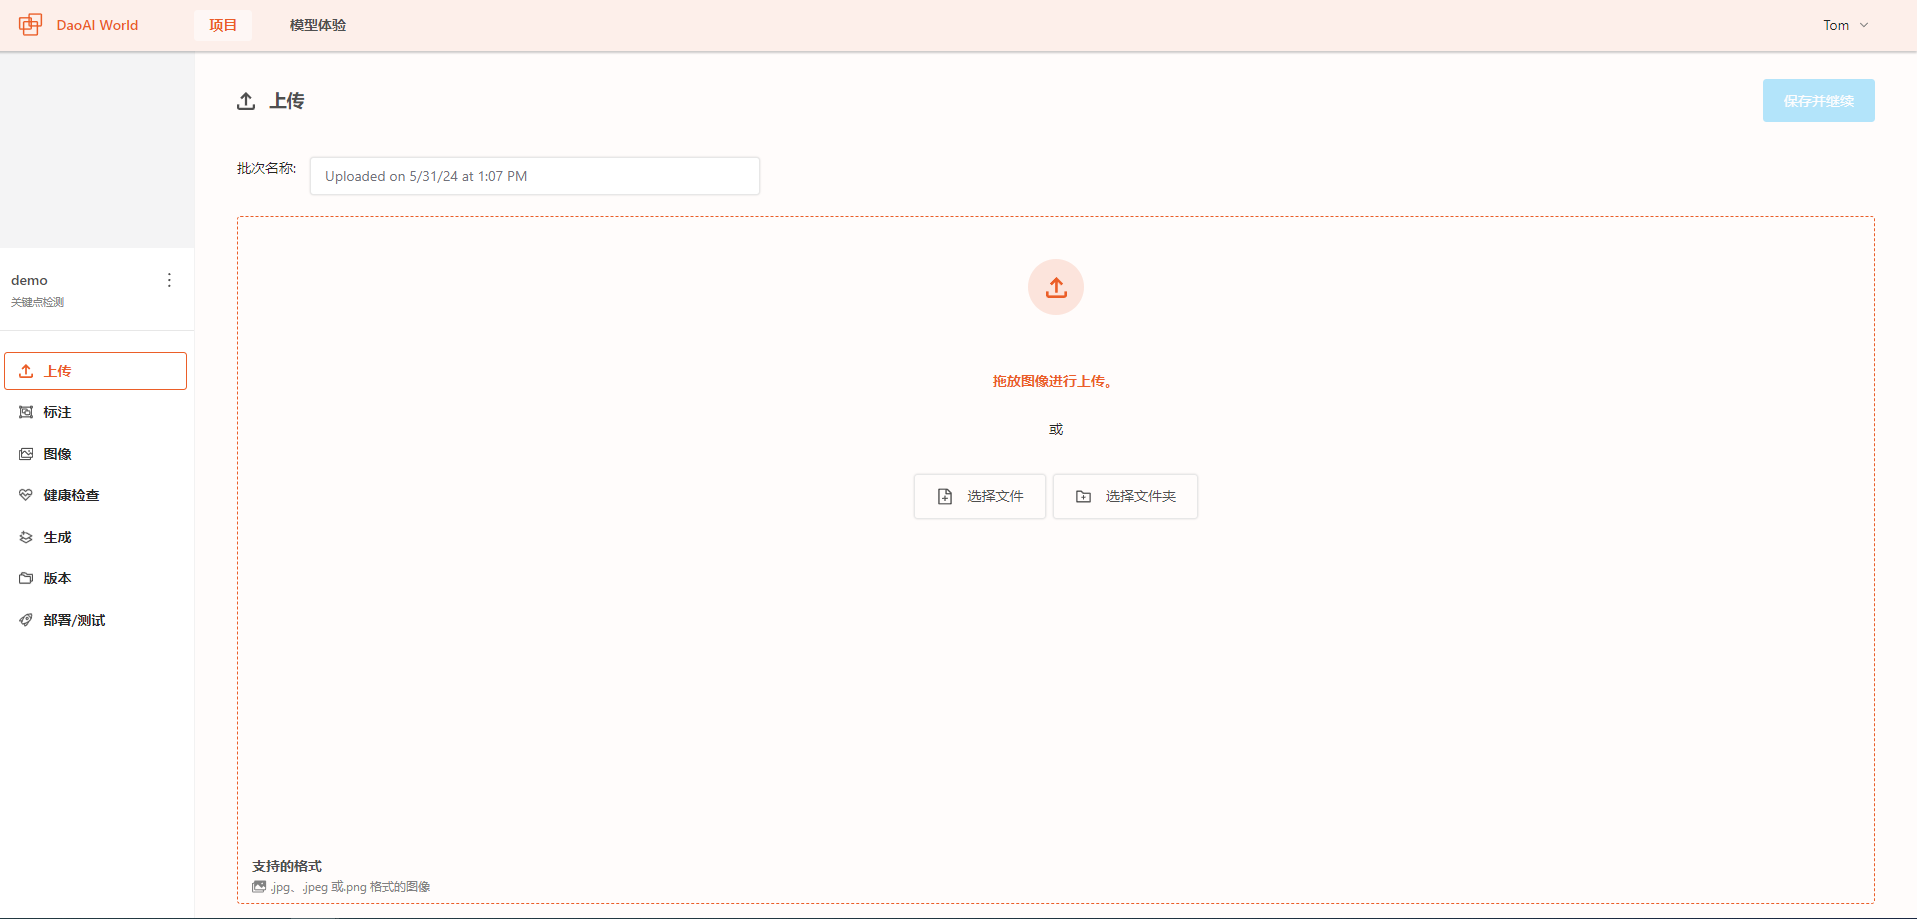
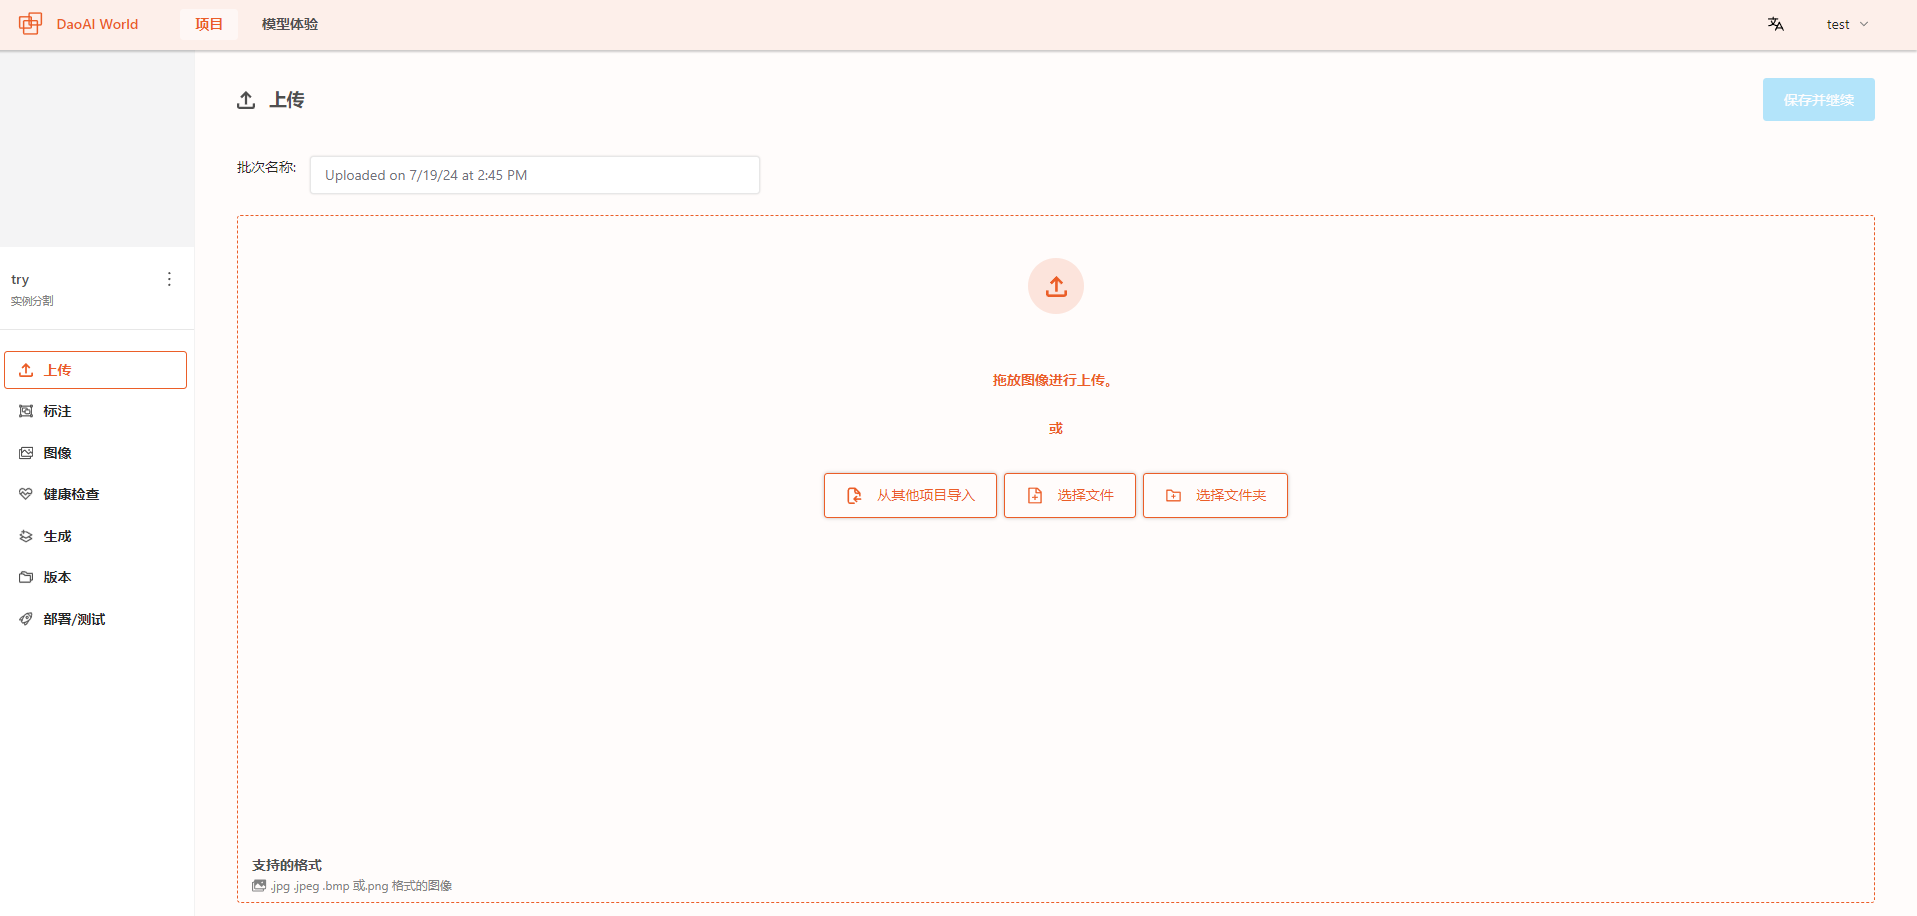
release 2.24.5.0 update

diff --git a/docs/source/conf.py b/docs/source/conf.py
@@ -6,8 +6,8 @@ project = 'DaoAI World用户手册'
 copyright = '2021-2024 DaoAI Robotics Inc.'
 author = 'DaoAI'
 
-release = '2024.4'
-version = '2024.4.0'
+release = '2024.5'
+version = '2024.5.0'
 
 # -- General configuration
 

diff --git a/docs/source/develop/index.rst b/docs/source/develop/index.rst
@@ -39,6 +39,20 @@
 C++ 环境配置
 ------------
 
+    
+    首先需要将 DLSDK 解压目录下的bin目录和3rdparty目录添加到系统环境变量path下面。
+
+    如下图，解压目录为 C:\\Users\\daoai\\Downloads\\DLSDK, 那么就需要将一下两个目录添加到path系统变量中。
+
+    C:\\Users\\daoai\\Downloads\\DLSDK\\3rdparty， <DLSDK 目录>\\3rdparty
+    C:\\Users\\daoai\\Downloads\\DLSDK\\bin， <DLSDK 目录>\\bin
+
+        .. image:: images/path_icon.png
+            :scale: 70%
+
+        .. image:: images/path_step.png
+            :scale: 100%
+
 
     C++的示例项目中以下的步骤已经配置好了，如果您需要创建一个自定义项目，则需要进行以下的配置。
 
@@ -94,6 +108,81 @@ C# 环境配置
         .. image:: images/browse_assembly.png
             :scale: 100%
 
+Python 环境配置
+---------------
+
+Python 只支持在linux系统中使用，如果您的操作系统是Windows， 那么请参考 :ref:`1. 使用Docker Image` 配置Docker 虚拟环境并使用DaoAI World Python SDK
+
+1. 使用Docker Image
+~~~~~~~~~~~~~~~~~~~~~~~~~~~~~~~~~
+
+需要先安装Docker。
+
+安装完成后, 运行Docker 然后打开命令栏, 输入并运行以下命令 来下载Docker Container。注意 这一步需要预留约60G的磁盘空间。
+
+.. code-block::
+
+    docker pull daoairobotics/daoai_vision 
+
+.. image:: images/pull_docker.png
+    :scale: 100%
+        
+下载完毕后，运行以下命令运行Docker Image 并进入虚拟映像的linux环境
+
+.. code-block::
+
+    docker run -it --gpus=all -v <本地路径>:/home/appuser/workdir -e ACTIVATION_PATH_LICENSE='/home/appuser/workdir/license.lic' -e ACTIVATION_PATH_MACHINE='/home/appuser/workdir/machine.lic' -e ACTIVATION_FINGERPRINT='857f67d5-f6a2-4bb0-9af4-90dc72d58e73' daoairobotics/daoai_vision
+
+其中
+
+1. <本地路径> 是您本地的路径，请替换为您实际的路径。
+2. /home/appuser/workdir 是Docker容器内的虚拟路径，该路径会包含第一步中指定路径的文件和文件夹。
+3. -e ACTIVATION_PATH_LICENSE='/home/appuser/workdir/license.lic' 是DaoAI的许可证文件路径，该文件应放置在第一步设置的本地路径中，并且可以在虚拟路径中访问。如果您没有许可证，请参考:ref:`DLSDK显示License Check Fail`
+4. -e ACTIVATION_PATH_MACHINE='/home/appuser/workdir/machine.lic' 是DaoAI的机器码文件路径，该文件应放置在第一步设置的本地路径中，并且可以在虚拟路径中访问。如果您没有许可证，请参考:ref:`DLSDK显示License Check Fail`
+5. -e ACTIVATION_FINGERPRINT='857f67d5-f6a2-4bb0-9af4-90dc72d58e73' 是您机器的机器码。如果您不知道您的机器码是什么，请参考 :ref:`DLSDK显示License Check Fail`
+6. daoairobotics/daoai_vision 是Docker镜像的名称。
+
+输入命令后，如下图，您将以appuser登入Docker虚拟映像
+
+    .. image:: images/pscmd.png
+        :scale: 100%
+
+
+2. 安装DaoAI Python SDK wheel
+~~~~~~~~~~~~~~~~~~~~~~~~~~~~~~~~~~~~
+
+
+Python SDK wheel 目前只支持linux环境，如果您使用的是Windows系统，那么请使用linux虚拟机，或者Docker Image
+
+需要首先安装 **Python 3.10** 或者 **Python 3.11**
+
+如果您已经安装了Python, 您可以使用以下命令来确认您的版本
+
+.. code-block::
+
+    python3 --version
+
+
+根据您的Python版本 下载 `python 310 wheel <https://daoairoboticsinc-my.sharepoint.com/:u:/g/personal/nrd_daoai_com/EX5WYClZ4CVPuDdMfh7pY-QB_Glua37OAUcPLACuLg7KTw?e=TE4VgS>`_ 文件或者 `Python 311 wheel  <https://daoairoboticsinc-my.sharepoint.com/:u:/g/personal/nrd_daoai_com/EX5WYClZ4CVPuDdMfh7pY-QB_Glua37OAUcPLACuLg7KTw?e=CcIBWq>`_ 文件
+
+使用以下命令安装wheel文件
+
+Python 3.10:
+
+.. code-block::
+
+    pip install ultralytics-8.2.15-cp310-cp310-linux_x86_64.whl 
+
+
+Python 3.11:
+
+.. code-block::
+
+    pip install ultralytics-8.2.15-cp311-cp311-linux_x86_64.whl 
+
+然后您的DaoAI Python SDK 模组就安装完毕了
+
+
 SDK
 ------
 
@@ -113,6 +202,7 @@ SDK
     
     cpp_eg
     cs_eg
+    python_eg
 
 桌面应用程序
 -------------

diff --git a/docs/source/develop/python_eg.rst b/docs/source/develop/python_eg.rst
@@ -1,0 +1,120 @@
+Python 代码示例
+---------------------
+
+您可以使用我们给的 `Python示例代码 <https://daoairoboticsinc-my.sharepoint.com/:u:/g/personal/nrd_daoai_com/Ed6ajuVWvRRNu12zuP8Ha18BHTPYznA4P6bO8xtlBuEb4w?e=rGTCF7>`_ 里面包含了图片的读取，模型的读取，以及模型的预测 和输出绘制。
+
+下载后，解压文件夹，如果您使用的是Docker Image, 请确保文件放置在 /home/appuser/workdir 下，也就是启动时的本地目录下。
+
+然后运行以下命令就可以运行python脚本，并使用提供的示例模型和图片做模型的预测，结果会输出在同文件夹中的 output_with_masks_classes_scores.png 文件。
+
+.. code-block:: python
+
+    python3 example.py
+
+您可以通过更改example.py中的文件读取路径来使用不同的图片和深度学习模型。
+
+.. code-block:: python
+
+    MODEL_ZIP = 'kp2.zip'
+    IMG_PATH = 'kp.png'
+
+您也可以从一个新的python文件开始，那么首先需要导入 daoai_vision 库，也就是我们的DaoAI World Python SDK
+
+.. code-block:: python
+
+    import daoai_vision as dv
+
+以下的库可能也会对您有帮助
+
+.. code-block:: python
+
+    import cv2
+    import numpy as np
+    import matplotlib.pyplot as plt
+
+
+读取模型
+
+.. code-block:: python
+
+    MODEL_ZIP = 'kp_fast_model.zip' #DaoAI world 模型文件路径
+    DEVICE = 'gpu'  # 硬件选项: cpu 或 gpu 使用cpu的话模型预测速度会显著慢于gpu
+    model = dv.get_model(model_zip=MODEL_ZIP, device=DEVICE) 
+
+读取图片，和模型预测
+
+.. code-block:: python
+
+    IMG_PATH = 'test_image.png' #读取的图片路径
+    results = model.infer(IMG_PATH) #模型 调用预测功能 
+
+
+预测结果
+
+.. code-block:: python
+
+    boxes     = results.boxes     # [N][x1,y1,x2,y2] ：两个点组成的边界框
+    classes   = results.classes   # [N] 模型类别索引值
+    labels    = results.labels    # [N] 模型类别字符串， 可以用 labels[classes[i]] 来访问对应结果的类别字符串
+    scores    = results.scores    # [N] 预测的置信度
+    masks     = results.masks     # [N][H][W] 模型的掩膜像素
+    keypoints = results.keypoints # [N][x, y, score] 模型的关键点
+
+之后您可以按照需要使用这些结果。
+
+绘制bounding box
+
+.. code-block:: python
+
+    # 绘制 bounding boxes
+    for box in boxes:
+        cv2.rectangle(img, (int(box[0]), int(box[1])), (int(box[2]), int(box[3])), (0, 255, 0), 2)
+
+绘制keypoints
+
+.. code-block:: python
+
+    if keypoints is not None:
+        for obj in keypoints:
+            for kp in obj:
+                if float(kp[2]) > 0.5:  
+                    cv2.circle(img, (int(kp[0]), int(kp[1])), 2, (0, 0, 255), 2)
+
+
+绘制掩膜，类，和置信度
+
+.. code-block:: python
+
+    # 绘制 masks、classes 和 scores
+    for i in range(len(boxes)):
+        if masks is not None:
+            mask = masks[i]
+
+            # 将 mask 缩放到图像大小
+            mask_resized = cv2.resize(mask.astype(np.uint8), (img.shape[1], img.shape[0]))
+            mask_rgb = np.zeros_like(img)
+            mask_rgb[mask_resized > 0.5] = (255, 0,255)  # 设置 mask 的颜色
+            # 绘制 mask
+            img = cv2.addWeighted(img, 1, mask_rgb, 0.5, 0)
+
+        cls = classes[i]
+        score = scores[i]
+        label = labels[cls]
+
+
+        # 获取当前检测框的坐标
+        bbox = boxes[i]
+        x1, y1, x2, y2 = int(bbox[0]), int(bbox[1]), int(bbox[2]), int(bbox[3])
+
+
+
+        # 绘制 class 和 score
+        text = f'{cls} {label}: {score:.2f}'
+        cv2.putText(img, text, (x1, y1 - 10), cv2.FONT_HERSHEY_SIMPLEX, 0.5, (255, 255, 255), 1)
+
+
+使用示例代码的预测结果：
+
+.. image:: images/output_with_masks_classes_scores.png
+    :scale: 40%
+    

diff --git a/docs/source/introduce/quick_start/index.rst b/docs/source/introduce/quick_start/index.rst
@@ -74,7 +74,9 @@ DaoAI World拥有用户管理功能，每个用户的工作区都是独立的，
 
 **上传数据**
 
-DaoAI World支持上传单张图片，也支持上传一整个文件夹图片。这里我们点击 **选择文件夹** 来批量上传我们的数据集。
+DaoAI World支持上传单张图片(png, jpg, jpeg, bmp)、或者上传一整个文件夹中的所有图片。也可以连带图片的标注数据(.json)文件一起上传，或者直接导入其它创建好的项目中的数据。
+
+这里我们点击 **选择文件夹** 来批量上传我们的数据集。
 
     .. image:: images/upload_folder.png
         :width: 800
@@ -190,11 +192,21 @@ DaoAI World支持上传单张图片，也支持上传一整个文件夹图片。
     .. image:: images/training.png
         :width: 800
         :align: center
+    
+    训练开始后，您可以查看实时的模型训练。需要的训练时间也显示在图表上方。
+    .. image:: images/training_2.png
+        :width: 800
+        :align: center
 
-
-    在DaoAI World自动进行模型训练的过程中您也可以通过查看训练数据，查看模型训练情况。等待DaoAI World将模型训练好后最终就会如下图所示，您可以选择导出模型
-    也可以点击左侧导航栏的部署/测试，手动检测模型结果精确度。
+    在DaoAI World自动进行模型训练的过程中您也可以通过查看实时训练图表查看模型的训练情况。等待DaoAI World将模型训练好后最终就会如下图所示，您可以选择导出模型。导出的模型可以使用 `DaoAI Vision Pilot <http://docs.welinkirt.com/daoai-vision-system-user-manual/chinese-2.24.4.0/index.html>`_ 或者 `DaoAI InspecTRA <http://docs.welinkirt.com/daoai-inspectra-user-manual/chinese-2.24.3.0/index.html>`_ 或者 DaoAI World SDK 详情请见 :ref:`开发功能`
 
     .. image:: images/training_over.png
         :width: 800
         :align: center
+
+    也可以点击左侧导航栏的部署/测试，手动检测模型结果精确度。
+
+    .. image:: images/deploy_test.png
+        :width: 800
+        :align: center
+

diff --git a/docs/source/data/manage/start.rst b/docs/source/data/manage/start.rst
@@ -4,25 +4,27 @@
 上传数据
 -----------------
 
-    在项目创建成功之后，可以通过 **选择文件** 或 **选择文件夹** 的方式上传图片数据。上传的图片数据将会被添加到项目中，以供后续的标注工作。
+    在项目创建成功之后，可以通过 **选择文件** 或 **选择文件夹** 或 **从其他项目导入** 的方式上传图片数据。上传的图片数据将会被添加到项目中，以供后续的标注工作。
 
         .. image:: Images/upload_folder.png
             :width: 800
             :align: center
 
-    数据集支持.jpg和.png 格式的图片文件, 以及.json格式的标注文件。如果上传的数据中包含.json格式的标注文件，系统会自动读取标注文件中的标注信息，并将其显示在标注信息中。您可以在此查看被识别到的标注信息是否正确，用以确保图片的标注没有出现错误。
+    数据集支持.jpeg、.jpg、.png 和 .bmp 格式的图片文件, 以及.json格式的标注文件。如果上传的数据中包含.json格式的标注文件，系统会自动读取标注文件中的标注信息，并将其显示在标注信息中。您可以在此查看被识别到的标注信息是否正确，用以确保图片的标注没有出现错误。
     
         .. image:: Images/label_recog.png
             :width: 800
             :align: center
 
         .. warning:: 
-            请注意，由于系统限制，单词上传图片建议小于1000张，单次上传图片数量过多可能会导致上传失败。
+            请注意，由于系统限制，图片大小不能超过50MB。且单次上传图片建议小于1000张，单次上传图片数量过多可能会导致上传失败。
+            
 
     
 
 标注工具
 ------------
+
         在DaoAI World中，您可以使用标注工具对图像进行标注。按照训练项目费雷的不同，您可以使用不同的工具对图像进行标注。
 
             .. image:: Images/annoTool0.png

diff --git a/docs/source/train/train_model/index.rst b/docs/source/train/train_model/index.rst
@@ -56,9 +56,9 @@
 
  
         DAOAI WORLD中提供了以下的预处理选项:
-         * **兴趣区域**
-            兴趣区域会更改图片大小，也可以选择缩放所需的尺寸。
-            分离兴趣区域可以从图像或者数据集中提取特定区域，实现有针对性的分析和对相关信息的集中检查。
+         * **感兴趣区域**
+            感兴趣区域会更改图片大小，也可以选择缩放所需的尺寸。
+            分离感兴趣区域可以从图像或者数据集中提取特定区域，实现有针对性的分析和对相关信息的集中检查。
 
             在弹出的页面中通过调整水平区域与垂直区域中感兴趣的部分来划定范围。该范围会在图像中显示为一个矩形区域，同时该区域会施加在所有的图像上。
 
@@ -74,6 +74,13 @@
                 :align: center
 
         
+         * **调整图像大小**
+            更大的图像可能包含更多详细信息，但处理速度可能较慢。通过适当调整图像大小，可以找到一种平衡，使模型保留重要特征的同时减少计算负载，从而提高模型的性能。
+
+            .. image:: images/resize.png
+                :width: 600
+                :align: center
+
 
 数据增强方法
 ----------------------

diff --git a/docs/source/introduce/quick_start/release-notes.rst b/docs/source/introduce/quick_start/release-notes.rst
@@ -1,0 +1,23 @@
+发布说明
+============
+
+.. contents:: 
+    :local:
+
+2.24.5.0 版本更新说明：
+--------------------------
+
+- 新增了训练手动提前停止功能
+- 新增了OCR项目的智能标注
+- 健康检查发现错误时，会有更详细的错误说明
+- 上传文件添加了jpg支持， 目前支持的格式有png jpeg jpg
+- 新增了标注时，在顶部输入页数跳转的功能
+- OCR模型支持4点矩形标注，可以更好的标注弯曲的字体
+- 新增标注空时，在详情和概略视图中显示标注为空的图标
+- 标注无缺陷时，在详情和概略视图中显示无缺陷的图标
+- 优化了图片加载速度
+- 新增了所有模型的默认Resize预处理步骤
+- 新增从其它项目中导入数据集的功能
+- 优化了健康检查的速度
+- 新增了模型训练页面的预计训练时间
+- 新增了导出模型时的版本号信息

diff --git a/docs/source/index.rst b/docs/source/index.rst
@@ -7,13 +7,7 @@ DAOAI WORLD
    :caption: 介绍
 
    introduce/quick_start/index
-   
-.. toctree::
-   :maxdepth: 2
-   :caption: 开发
-
-   develop/index
-
+   introduce/quick_start/release-notes
 
 .. toctree::
    :maxdepth: 2
@@ -26,6 +20,12 @@ DAOAI WORLD
    data/annotate_models/models
    train/train_model/index.rst
    deploy/deploy_device/index.rst
+
+.. toctree::
+   :maxdepth: 2
+   :caption: 开发
+
+   develop/index
 
 .. toctree::
    :maxdepth: 1

diff --git a/docs/source/model/model.rst b/docs/source/model/model.rst
@@ -10,6 +10,7 @@
     ano/index
     class/index
     obj/index
+    rot_obj/index
     semantic/index
     ocr/index
     demo-projects/index
